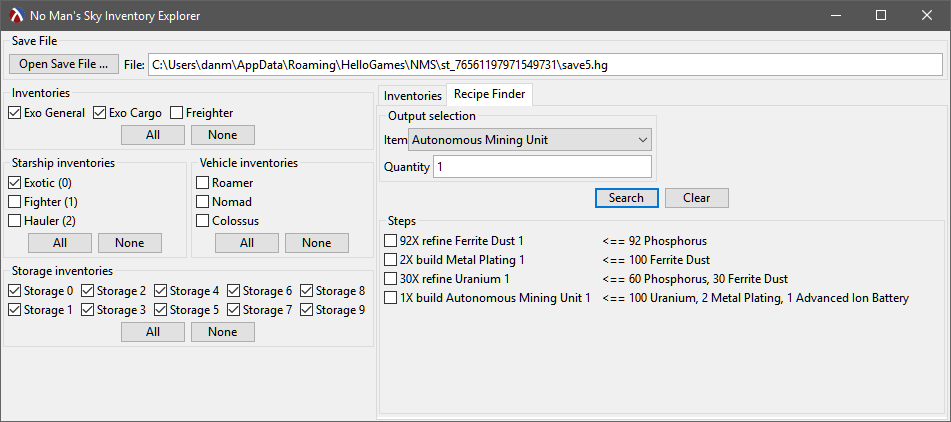
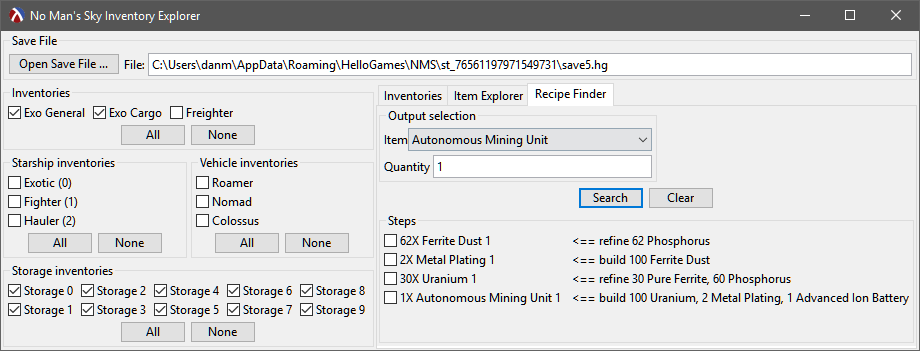
Updated screenshots and readme.

Changed region(s): [[0.0, 0.0, 1.0, 0.9687], [0.0, 0.9972, 1.0, 1.0]]

diff --git a/README.md b/README.md
@@ -27,6 +27,10 @@ is represented in the selected inventories. In other words, no row
 is show for an item unless you have at least one of that item in a
 selected inventory.
 
+The Item Explorer tab shows you some basic information about an item,
+including lists of recipes that use that item as an input, or that
+produce it as an output.
+
 The Recipe Finder tab helps you find recipes for items that you wish
 to craft. Choose a craftable item from the choice box, enter how many
 of the item you want, and press the Search button. The program will
@@ -48,6 +52,9 @@ help you keep track while applying a lengthy sequence.
 
 Startup state, showing table of selected inventory contents:
 ![startup screenshot with inventory table](./screenshots/inventories.png)
+
+Item exploration:
+![screenshot showing item exploration](.screenshots/explore-item.png)
 
 Recipe finder after successfully finding a recipe chain using selected inventory:
 ![screenshot with successful recipe list](./screenshots/found-recipe.png)
